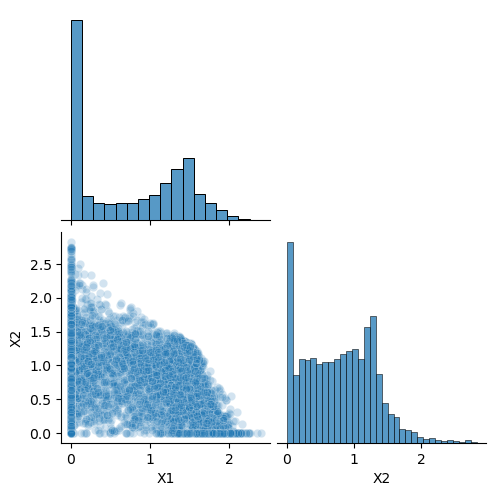
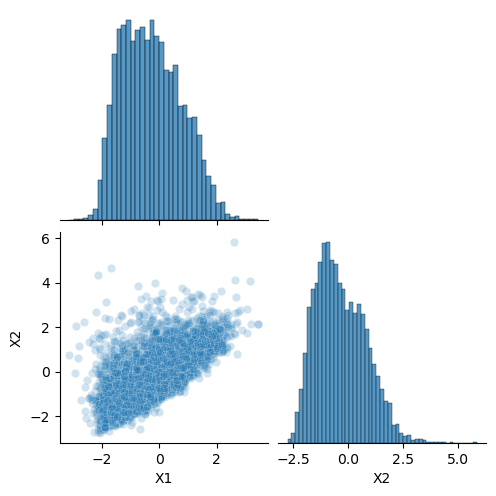
no activaiton on LS

Changed region(s): [[0.0605, 0.0302, 0.5444, 0.998], [0.5746, 0.4839, 0.9677, 0.9375], [0.4536, 0.4839, 0.4839, 0.5141]]

diff --git a/modelLib.py b/modelLib.py
@@ -51,7 +51,7 @@ class autoencoder(nn.Module):
         super().__init__()
         self.down1 = encodeBlock(1,5) # 1x64x64 > 5x16x16
         self.down2 = encodeBlock(5,7) # 5x16x16 > 7x4x4
-        self.down3 = encodeBlock(7,2) # 7x4x4 > 2x1x1
+        self.down3 = encodeBlock(7,2,last=True) # 7x4x4 > 2x1x1
         self.up1 = decodeBlock(2,7) 
         self.up2 = decodeBlock(7,5) 
         self.up3 = decodeBlock(5,1) 
